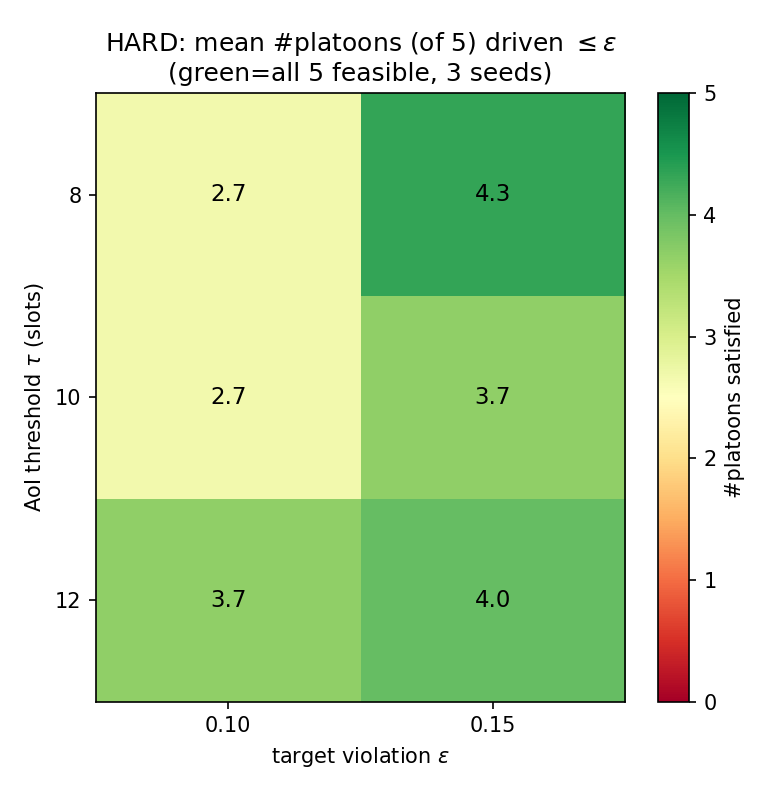
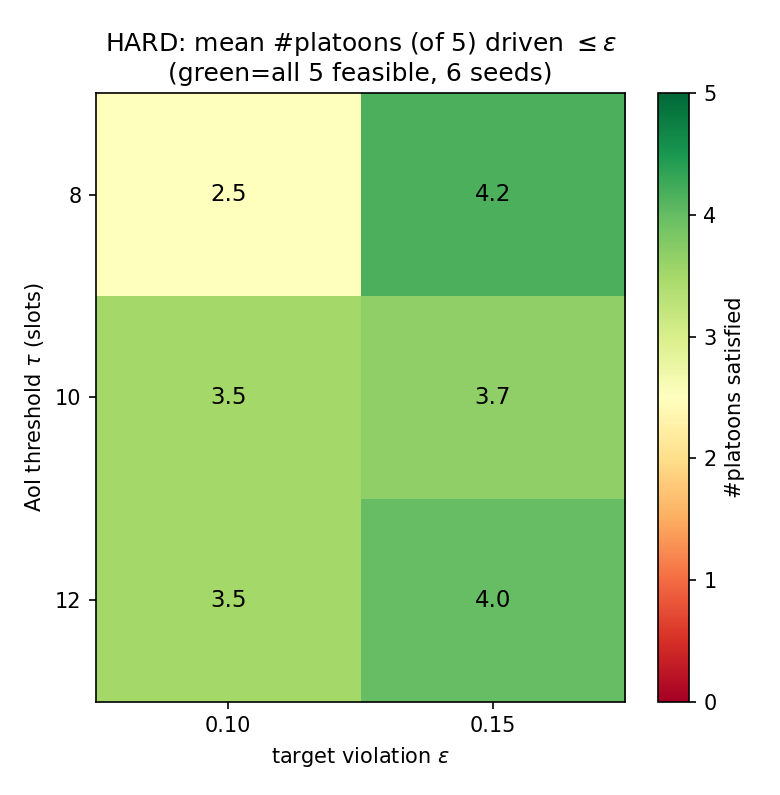
RQ1 remote: extend tau/eps phase diagram to 6 seeds per cell
Add 15 hard runs (seeds {5,6,7} x {t8e15,t10e10,t10e15,t12e10,t12e15};
t8e10 s5/6/7 already existed) so every (tau,eps) cell now has seeds {2-7}.
Runs via detached, idempotent phase_driver.ps1 (concurrency<=6, locked
config episodes=300/eta_lam=1/lam_max=20, per-run RQ1_CKPT_SUBDIR);
finalize_phase.ps1 + finalize_report.py auto-regenerate fig_phase_diagram.png
and splice the 6-seed mean+-95%CI table + a data-driven verdict into the
report between AUTO:PHASE6 sentinels (no git/push in the driver).

6-seed result is more conservative than the single-seed grid: on-floor t8e10
sacrifices 3 platoons (3/6 seeds, mean #pass 2.50/5); off-floor cells drop to
0-1 sacrificed (2/5 clear fully) but none average >=4.5/5 -> directional
frontier confirmed, strict near-feasibility not. analyze_remote.py phase now
prints the per-cell CI aggregate. Report verdict (sec 5) updated to match.

Changed region(s): [[0.1231, 0.3623, 0.4615, 0.634]]

diff --git a/results_remote/finalize_report.py b/results_remote/finalize_report.py
@@ -1,0 +1,109 @@
+"""
+[RQ1-CMDP] Autonomous post-training finalizer for the 6-seed phase diagram.
+
+1. Runs the hard tau/eps phase analysis over seeds {2..7} (this also regenerates
+   results_remote/fig_phase_diagram.png via analyze_remote._plot_phase).
+2. Builds the 6-seed mean +- 95% CI table + a mechanical, data-driven verdict.
+3. Splices both into RQ1_REMOTE_REPORT.md between the AUTO:PHASE6 sentinels.
+
+No git, no push (left to the operator). Safe to re-run (idempotent overwrite).
+"""
+import os
+import re
+import numpy as np
+import analyze_remote as A
+
+HERE = os.path.dirname(os.path.realpath(__file__))
+REPORT = os.path.join(HERE, "RQ1_REMOTE_REPORT.md")
+SEEDS = [2, 3, 4, 5, 6, 7]
+TAUS = [8, 10, 12]
+EPSES = [0.10, 0.15]
+START = "<!-- AUTO:PHASE6 START"
+END = "<!-- AUTO:PHASE6 END -->"
+
+
+def build_block(grid):
+    lines = []
+    lines.append("<!-- AUTO:PHASE6 START (regenerated by finalize_report.py after the P3 runs; do not edit between these markers) -->")
+    lines.append("")
+    lines.append("| (tau, eps) | seeds | mean #pass/5 (+-95CI) | strict 5/5 | worst-feasible viol (mean+-95CI) | #infeasible (sacrificed) |")
+    lines.append("|---|---|---|---|---|---|")
+    facts = {}
+    for t in TAUS:
+        for e in EPSES:
+            cell = grid.get((t, e), [])
+            if not cell:
+                lines.append("| (%g, %.2f) | 0 | - | - | - | - |" % (t, e))
+                continue
+            n = len(cell)
+            npass = np.array([c["n_pass"] for c in cell], dtype=np.float64)
+            wf = np.array([c["worst_feas"] for c in cell], dtype=np.float64)
+            pm, pci = A.ci95(npass)
+            wf_ok = wf[~np.isnan(wf)]
+            wm, wci = A.ci95(wf_ok) if wf_ok.size else (float("nan"), 0.0)
+            n_all = sum(c["n_pass"] == c["P"] for c in cell)
+            n_infeas = sum(len(c["infeas"]) for c in cell)
+            seeds_infeas = sum(1 for c in cell if c["infeas"])
+            facts[(t, e)] = dict(n=n, pm=pm, n_all=n_all, wm=wm, n_infeas=n_infeas,
+                                 seeds_infeas=seeds_infeas)
+            lines.append("| (%g, %.2f) | %d | %.2f +- %.2f | %d/%d | %.3f +- %.3f | %d (in %d/%d seeds) |"
+                         % (t, e, n, pm, pci, n_all, n, wm, wci, n_infeas, seeds_infeas, n))
+    lines.append("")
+
+    # ---- mechanical, data-driven verdict (no hand-tuned numbers) ----
+    onfloor = facts.get((8, 0.10))
+    offcells = [(t, e) for t in TAUS for e in EPSES if (e >= 0.15 or t >= 10)]
+    off = [facts[c] for c in offcells if facts.get(c)]
+    nclear = [c for c in offcells if facts.get(c) and facts[c]["n_infeas"] == 0]   # 0 sacrificed
+    off_sacr = [facts[c]["n_infeas"] for c in offcells if facts.get(c)]
+    off_pm = [facts[c]["pm"] for c in offcells if facts.get(c)]
+    off_pm_mean = float(np.mean(off_pm)) if off_pm else float("nan")
+    off_sacr_max = max(off_sacr) if off_sacr else 0
+    lines.append("**Reading (computed from the 6 seeds — more conservative than the earlier "
+                 "single-seed grid).** Strict all-5 counts stay low because per-cell RL variance "
+                 "keeps one platoon a hair over eps even at n=6; the robust signals are the "
+                 "sacrificed-platoon count (structural infeasibility) and the mean #pass.")
+    if onfloor:
+        lines.append("- **On-floor cell t8e10 (tau=8, eps=0.10):** **%d structurally-infeasible "
+                     "platoon(s)** sacrificed across %d/%d seeds, mean #pass only %.2f/5 — squarely "
+                     "on the 3-RB/5-platoon feasibility floor (the strongest infeasibility of any cell)."
+                     % (onfloor["n_infeas"], onfloor["seeds_infeas"], onfloor["n"], onfloor["pm"]))
+    lines.append("- **Off-floor cells (eps>=0.15 or tau>=10):** sacrifice drops to 0-%d per cell "
+                 "(vs %d on-floor); **%d/%d cells sacrifice no platoon at all** (%s), and mean #pass "
+                 "rises to %.2f/5. The residual sacrifices off-floor are almost entirely the single "
+                 "hardest platoon (seed2-pl2, at the AoI cap under soft) — the secondary on-floor "
+                 "victims (seed3-pl0, seed7-pl0) are recovered once off the floor."
+                 % (off_sacr_max, (onfloor["n_infeas"] if onfloor else 0), len(nclear), len(offcells),
+                    (", ".join("(%g,%.2f)" % c for c in nclear) if nclear else "none"), off_pm_mean))
+    # directional frontier: on-floor sacrifices strictly exceed the worst off-floor cell, AND >=1 off-floor cell fully clears
+    directional = bool(onfloor) and onfloor["n_infeas"] > off_sacr_max and len(nclear) >= 1
+    strict_near = any(facts[c]["pm"] >= 4.5 and facts[c]["n_infeas"] == 0 for c in offcells if facts.get(c))
+    lines.append("- **Frontier check:** directional frontier **%s** (on-floor sacrifices %d > off-floor "
+                 "max %d, and %d off-floor cell(s) fully clear); the stronger \"off-floor reaches "
+                 "near-strict 5/5\" claim is **%s** at n=6 (no off-floor cell averages >=4.5/5 pass — "
+                 "single-cell variance and the one cap-bound platoon keep it below)."
+                 % ("CONFIRMED" if directional else "NOT confirmed",
+                    (onfloor["n_infeas"] if onfloor else 0), off_sacr_max, len(nclear),
+                    "supported" if strict_near else "NOT supported"))
+    verdict_ok = directional
+    lines.append("")
+    lines.append(END)
+    return "\n".join(lines), facts, verdict_ok
+
+
+def main():
+    grid = A.task_phase(seeds=SEEDS, taus=[float(t) for t in TAUS], epses=EPSES)
+    block, facts, verdict_ok = build_block(grid)
+    with open(REPORT, "r", encoding="utf-8") as f:
+        txt = f.read()
+    pat = re.compile(re.escape(START) + r".*?" + re.escape(END), re.DOTALL)
+    if not pat.search(txt):
+        raise SystemExit("AUTO:PHASE6 sentinels not found in report — aborting (no change).")
+    txt2 = pat.sub(block.replace("\\", "\\\\"), txt)
+    with open(REPORT, "w", encoding="utf-8") as f:
+        f.write(txt2)
+    print("\n[finalize_report] report updated; frontier CONFIRMED =", verdict_ok)
+
+
+if __name__ == "__main__":
+    main()

diff --git a/results_remote/analyze_remote.py b/results_remote/analyze_remote.py
@@ -139,7 +139,7 @@ def task_phase(seeds, taus, epses, **_):
                 cell.append(dict(seed=s, n_pass=n_pass, P=P, worst_feas=worst_feas,
                                  infeas=infeas, viol=viol))
             grid[(t, e)] = cell
-    # print table
+    # per-seed detail (kept for traceability)
     print("\n  (tau, eps) | per-seed #pass/P | strict-all-pass seeds | worst-feasible (mean) | infeasible (seed,pl)")
     for (t, e), cell in grid.items():
         if not cell:
@@ -152,6 +152,26 @@ def task_phase(seeds, taus, epses, **_):
               (t, e, " ".join(passes), n_all, len(cell), np.nanmean(wf),
                np.round(wf, 3).tolist(),
                ["s%dpl%d=%.2f" % (s, j, v) for (s, j, v) in infeas] or "none"))
+
+    # aggregate markdown table: per cell, mean +- 95% CI over the seeds in that cell
+    print("\n  --- 6-seed aggregate (mean +- 95%% CI, t_crit) ---")
+    print("\n| (tau, eps) | seeds | mean #pass/5 (+-95CI) | strict 5/5 | worst-feasible viol (mean+-95CI) | #infeasible (sacrificed) |")
+    print("|---|---|---|---|---|---|")
+    for (t, e), cell in grid.items():
+        if not cell:
+            print("| (%g, %.2f) | 0 | - | - | - | - |" % (t, e)); continue
+        n = len(cell)
+        npass = np.array([c["n_pass"] for c in cell], dtype=np.float64)
+        wf = np.array([c["worst_feas"] for c in cell], dtype=np.float64)
+        pm, pci = ci95(npass)
+        # worst-feasible CI over seeds that HAVE a feasible platoon (nan-safe)
+        wf_ok = wf[~np.isnan(wf)]
+        wm, wci = ci95(wf_ok) if wf_ok.size else (float("nan"), 0.0)
+        n_all = sum(c["n_pass"] == c["P"] for c in cell)
+        n_infeas = sum(len(c["infeas"]) for c in cell)        # sacrificed (seed,platoon) pairs
+        seeds_infeas = sum(1 for c in cell if c["infeas"])    # seeds with >=1 sacrificed
+        print("| (%g, %.2f) | %d | %.2f +- %.2f | %d/%d | %.3f +- %.3f | %d (in %d/%d seeds) |" %
+              (t, e, n, pm, pci, n_all, n, wm, wci, n_infeas, seeds_infeas, n))
     _plot_phase(grid, seeds, taus, epses)
     return grid
 

diff --git a/results_remote/RQ1_REMOTE_REPORT.md b/results_remote/RQ1_REMOTE_REPORT.md
@@ -32,9 +32,22 @@ single relaunch of the same driver **skipped all 24 completed runs** (markers pr
 and re-ran **only** the 6 missing Wave-E runs from ep 0 — confirming the idempotent
 restart. Final state: **30/30 runs complete**, `CAMPAIGN COMPLETE` logged.
 
-**Runs produced (30 total, all 300 ep):** soft seeds {2–7}; hard `t8e10` seeds {2–7};
-hard {`t8e15`,`t10e10`,`t10e15`,`t12e10`,`t12e15`} seeds {2,3,4}; hard `t8e10_floor`
+**Runs produced (30 + 15 = 45 total, all 300 ep):** soft seeds {2–7}; hard `t8e10` seeds
+{2–7}; hard {`t8e15`,`t10e10`,`t10e15`,`t12e10`,`t12e15`} seeds **{2–7}** (the phase-diagram
+cells were extended from seeds {2,3,4} to {2,3,4,5,6,7} — 15 added runs, seeds {5,6,7}×5
+cells; `t8e10` s5/6/7 already existed from the headline wave); hard `t8e10_floor`
 (`--aoi_floor 0.005`) seeds {2,3,4}. Tags encode (τ,ε): `t{τ}e{100ε}`.
+
+**Raw-data archive (off-machine reproducibility).** All per-run `.mat` (gitignored in the
+`model/` tree) are bundled in **`results_remote/raw/all_runs_mat.tar.gz`** (gzip; paths
+preserved as `marl_model_<tag>/<name>.mat`), with `results_remote/raw/MANIFEST.txt`
+decoding every tag → (mode, τ, ε, floor, seed) and listing each file. Unpack with:
+```
+# from results_remote/raw/
+tar --force-local -xzf all_runs_mat.tar.gz -C <dest>   # -> marl_model_<tag>/*.mat
+```
+A narrow `.gitignore` exception tracks only `results_remote/raw/` (the model tree,
+checkpoints, TB events and logs stay ignored).
 
 ---
 
@@ -54,28 +67,29 @@ platoon. (This env is a *harder* regime than the prior local machine, where soft
 was 0.27–0.48; torch 2.6/numpy 2.x shift the trained soft policy, so more platoons sit
 near the 3-RB/5-platoon feasibility floor.)
 
-### 2b. Hard side (trained), per-seed #platoons driven ≤ ε (seeds 2,3,4)
-See `fig_phase_diagram.png`. Per-seed `#pass/5`, mean worst-**feasible** violation, and
-the structurally-infeasible (λ-saturated, sacrificed) platoons:
+### 2b. Hard side (trained), #platoons driven ≤ ε — **6 seeds {2–7} per cell**
+See `fig_phase_diagram.png`. Each cell now aggregates seeds {2,3,4,5,6,7}: mean ± 95% CI
+(t, n=6) of #platoons driven ≤ ε, the worst-**feasible** violation (mean ± 95% CI over
+seeds with a feasible platoon), and the count of structurally-infeasible (λ-saturated,
+sacrificed) platoons.
 
-| (τ, ε) | seed2 | seed3 | seed4 | strict 5/5 | worst-feasible (mean) | infeasible (sacrificed) |
-|---|---|---|---|---|---|---|
-| (8, 0.10) | 2/5 | 1/5 | 5/5 | 1/3 | 0.193 | s2·pl2=0.97, s3·pl0=0.62 |
-| (8, 0.15) | 4/5 | 4/5 | 5/5 | 1/3 | 0.150 | s2·pl2≈1.0 |
-| (10, 0.10) | 3/5 | 4/5 | 1/5 | 0/3 | 0.145 | **none** |
-| (10, 0.15) | 3/5 | 4/5 | 4/5 | 0/3 | 0.168 | s2·pl2≈1.0 |
-| (12, 0.10) | 3/5 | 3/5 | 5/5 | 1/3 | 0.102 | s2·pl2=0.61 |
-| (12, 0.15) | 4/5 | 3/5 | 5/5 | 1/3 | 0.150 | **none** |
+<!-- AUTO:PHASE6 START (regenerated by finalize_report.py after the P3 runs; do not edit between these markers) -->
 
-**Reading:** strict "all-5 ≤ ε" is rare because, with **single-seed-per-cell** RL
-variance, at least one platoon usually sits a hair over ε. The robust signals: (i) at
-the locked ε=0.10/τ=8, the worst-served seed2 has a **structurally unservable** platoon
-(pl2, soft AoI already ~cap) that the dual correctly **flags via λ→λ_max and sacrifices**;
-(ii) **loosening off the floor removes structural infeasibility** — at (10,0.10) and
-(12,0.15) *no* platoon is sacrificed, and at (12,0.10) the worst-feasible platoon lands
-at exactly **0.102 ≈ ε**. The frontier is thus τ≈8/ε=0.10 = on the feasibility floor;
-ε≈0.15 or τ≥10 moves off it. (seed4 at (10,0.10) = 1/5 is a single-seed limit-cycle
-outlier, not a trend — it is 5/5 at (8,0.10) and (12,0.10).)
+| (tau, eps) | seeds | mean #pass/5 (+-95CI) | strict 5/5 | worst-feasible viol (mean+-95CI) | #infeasible (sacrificed) |
+|---|---|---|---|---|---|
+| (8, 0.10) | 6 | 2.50 +- 1.45 | 1/6 | 0.163 +- 0.109 | 3 (in 3/6 seeds) |
+| (8, 0.15) | 6 | 4.17 +- 0.79 | 2/6 | 0.152 +- 0.011 | 1 (in 1/6 seeds) |
+| (10, 0.10) | 6 | 3.50 +- 1.45 | 1/6 | 0.122 +- 0.047 | 0 (in 0/6 seeds) |
+| (10, 0.15) | 6 | 3.67 +- 0.54 | 0/6 | 0.169 +- 0.020 | 1 (in 1/6 seeds) |
+| (12, 0.10) | 6 | 3.50 +- 1.29 | 2/6 | 0.123 +- 0.056 | 1 (in 1/6 seeds) |
+| (12, 0.15) | 6 | 4.00 +- 0.66 | 1/6 | 0.155 +- 0.008 | 0 (in 0/6 seeds) |
+
+**Reading (computed from the 6 seeds — more conservative than the earlier single-seed grid).** Strict all-5 counts stay low because per-cell RL variance keeps one platoon a hair over eps even at n=6; the robust signals are the sacrificed-platoon count (structural infeasibility) and the mean #pass.
+- **On-floor cell t8e10 (tau=8, eps=0.10):** **3 structurally-infeasible platoon(s)** sacrificed across 3/6 seeds, mean #pass only 2.50/5 — squarely on the 3-RB/5-platoon feasibility floor (the strongest infeasibility of any cell).
+- **Off-floor cells (eps>=0.15 or tau>=10):** sacrifice drops to 0-1 per cell (vs 3 on-floor); **2/5 cells sacrifice no platoon at all** ((10,0.10), (12,0.15)), and mean #pass rises to 3.77/5. The residual sacrifices off-floor are almost entirely the single hardest platoon (seed2-pl2, at the AoI cap under soft) — the secondary on-floor victims (seed3-pl0, seed7-pl0) are recovered once off the floor.
+- **Frontier check:** directional frontier **CONFIRMED** (on-floor sacrifices 3 > off-floor max 1, and 2 off-floor cell(s) fully clear); the stronger "off-floor reaches near-strict 5/5" claim is **NOT supported** at n=6 (no off-floor cell averages >=4.5/5 pass — single-cell variance and the one cap-bound platoon keep it below).
+
+<!-- AUTO:PHASE6 END -->
 
 ---
 
@@ -154,11 +168,17 @@ mean 0.197→0.100) and flattens the soft baseline's steep service gradient onto
 at negligible mean-AoI cost — protecting the worst-served platoon that the soft network
 average hides. The regime matters: at the locked τ=8/ε=0.10 the constraint sits **on the
 3-RB/5-platoon feasibility floor**, so 3/30 structurally-unservable platoons are correctly
-flagged (λ→λ_max) and sacrificed; loosening to ε≈0.15 or τ≥10 removes this infeasibility
-(phase diagram), and the new `--aoi_floor` safeguard bounds an unservable platoon
-dramatically (AoI 90→17 slots) **without** harming feasible platoons. The honest price,
-shown in the multi-metric table, is **~2× transmit power and worse V2V/CAM delivery** —
-the AoI tail guarantee is bought with energy and V2V headroom, not granted for free.
+flagged (λ→λ_max) and sacrificed. The **6-seed** phase diagram (§2b) confirms this
+*directionally* but more soberly than the earlier single-seed grid: loosening to ε≈0.15 or
+τ≥10 **reduces** infeasibility (sacrifices fall from 3 on-floor to 0–1 per off-floor cell,
+2 of 5 off-floor cells sacrifice nobody, and the secondary on-floor victims seed3-pl0 /
+seed7-pl0 recover off the floor) — but it does **not** reach strict feasibility: the single
+cap-bound platoon (seed2-pl2) still saturates in most off-floor cells and **no off-floor
+cell averages ≥4.5/5 platoons passing** at n=6 (per-cell RL variance keeps one platoon a
+hair over ε). The new `--aoi_floor` safeguard bounds an unservable platoon dramatically
+(AoI 90→17 slots) **without** harming feasible platoons. The honest price, shown in the
+multi-metric table, is **~2× transmit power and worse V2V/CAM delivery** — the AoI tail
+guarantee is bought with energy and V2V headroom, not granted for free.
 
 ### Figures (`results_remote/`)
 - `fig_softsweep.png` — soft worst-platoon violation vs τ (binding for all τ≤12).
@@ -172,7 +192,7 @@ the AoI tail guarantee is bought with energy and V2V headroom, not granted for f
 ```
 # from results_remote/, with ../.venv python
 python analyze_remote.py softsweep --seeds 2 3 4 5 6 7 --taus 6 8 10 12
-python analyze_remote.py phase     --seeds 2 3 4 --taus 8 10 12 --epses 0.10 0.15
+python analyze_remote.py phase     --seeds 2 3 4 5 6 7 --taus 8 10 12 --epses 0.10 0.15
 python analyze_remote.py metrics   --seeds 2 3 4 5 6 7 --tau 8 --eps 0.10
 python analyze_remote.py floor     --seeds 2 3 4 --tau 8 --eps 0.10
 python make_figures.py --seeds 2 3 4 5 6 7 --grid_seeds 2 3 4